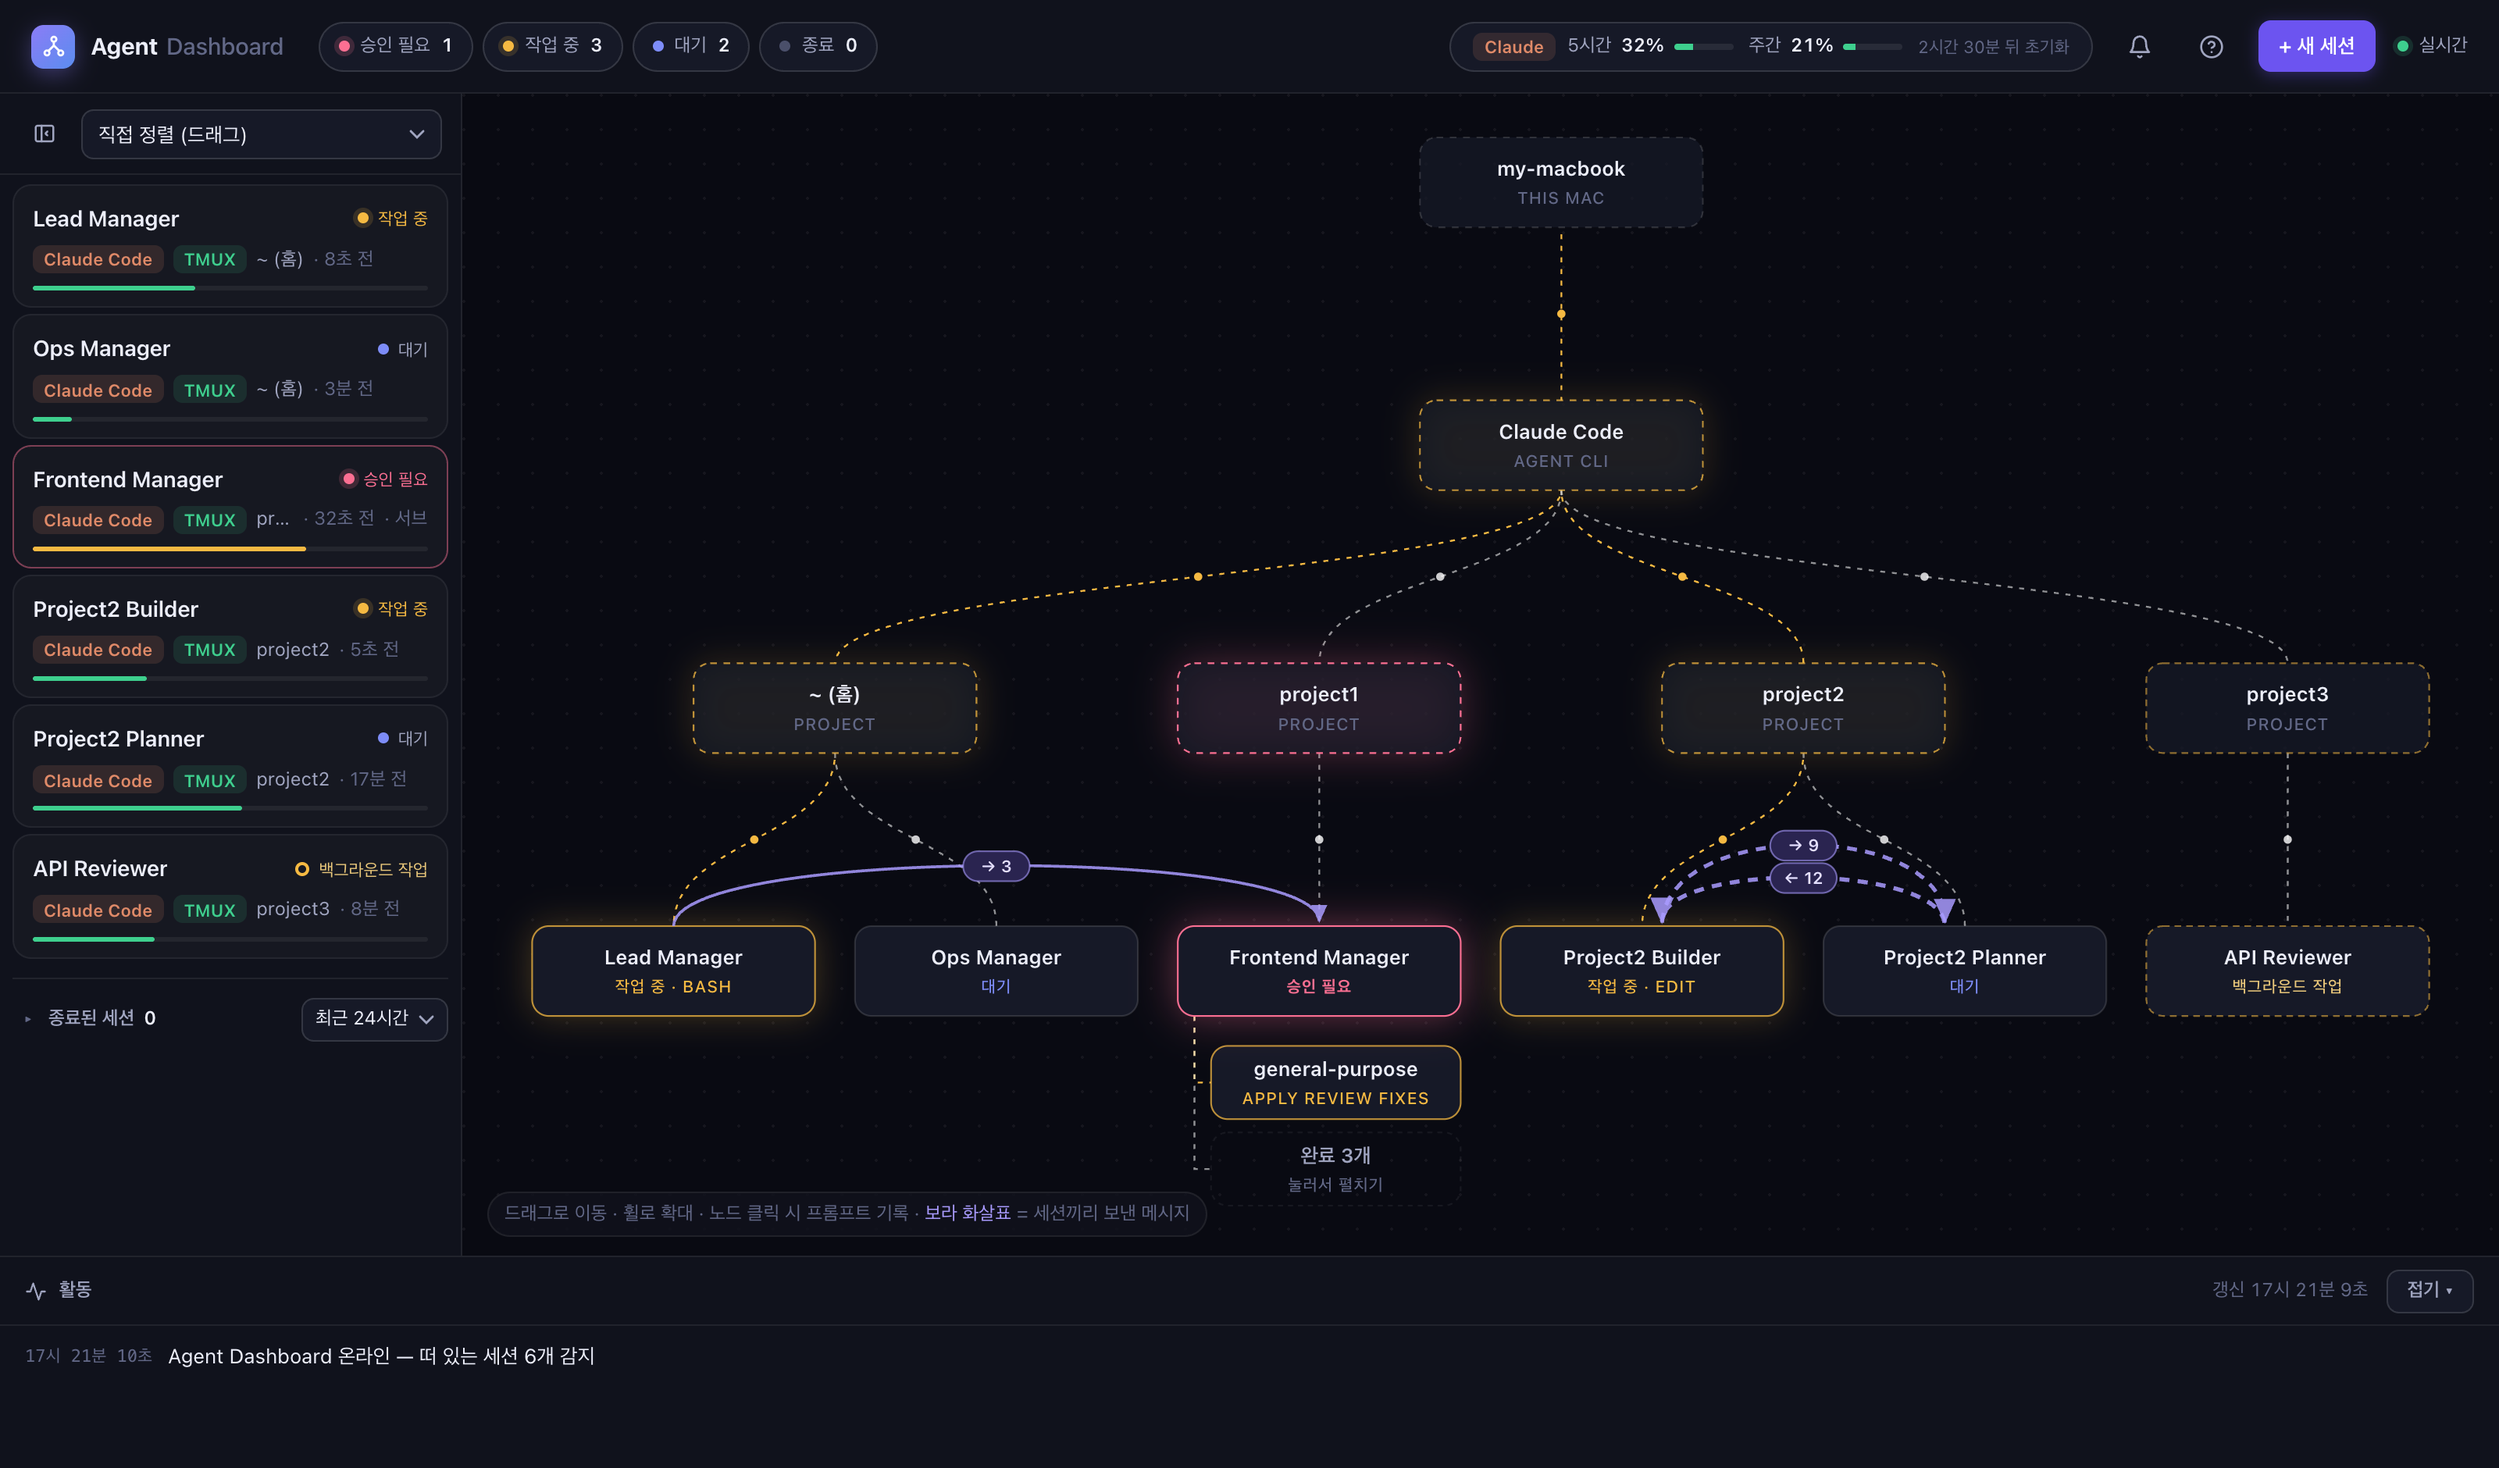
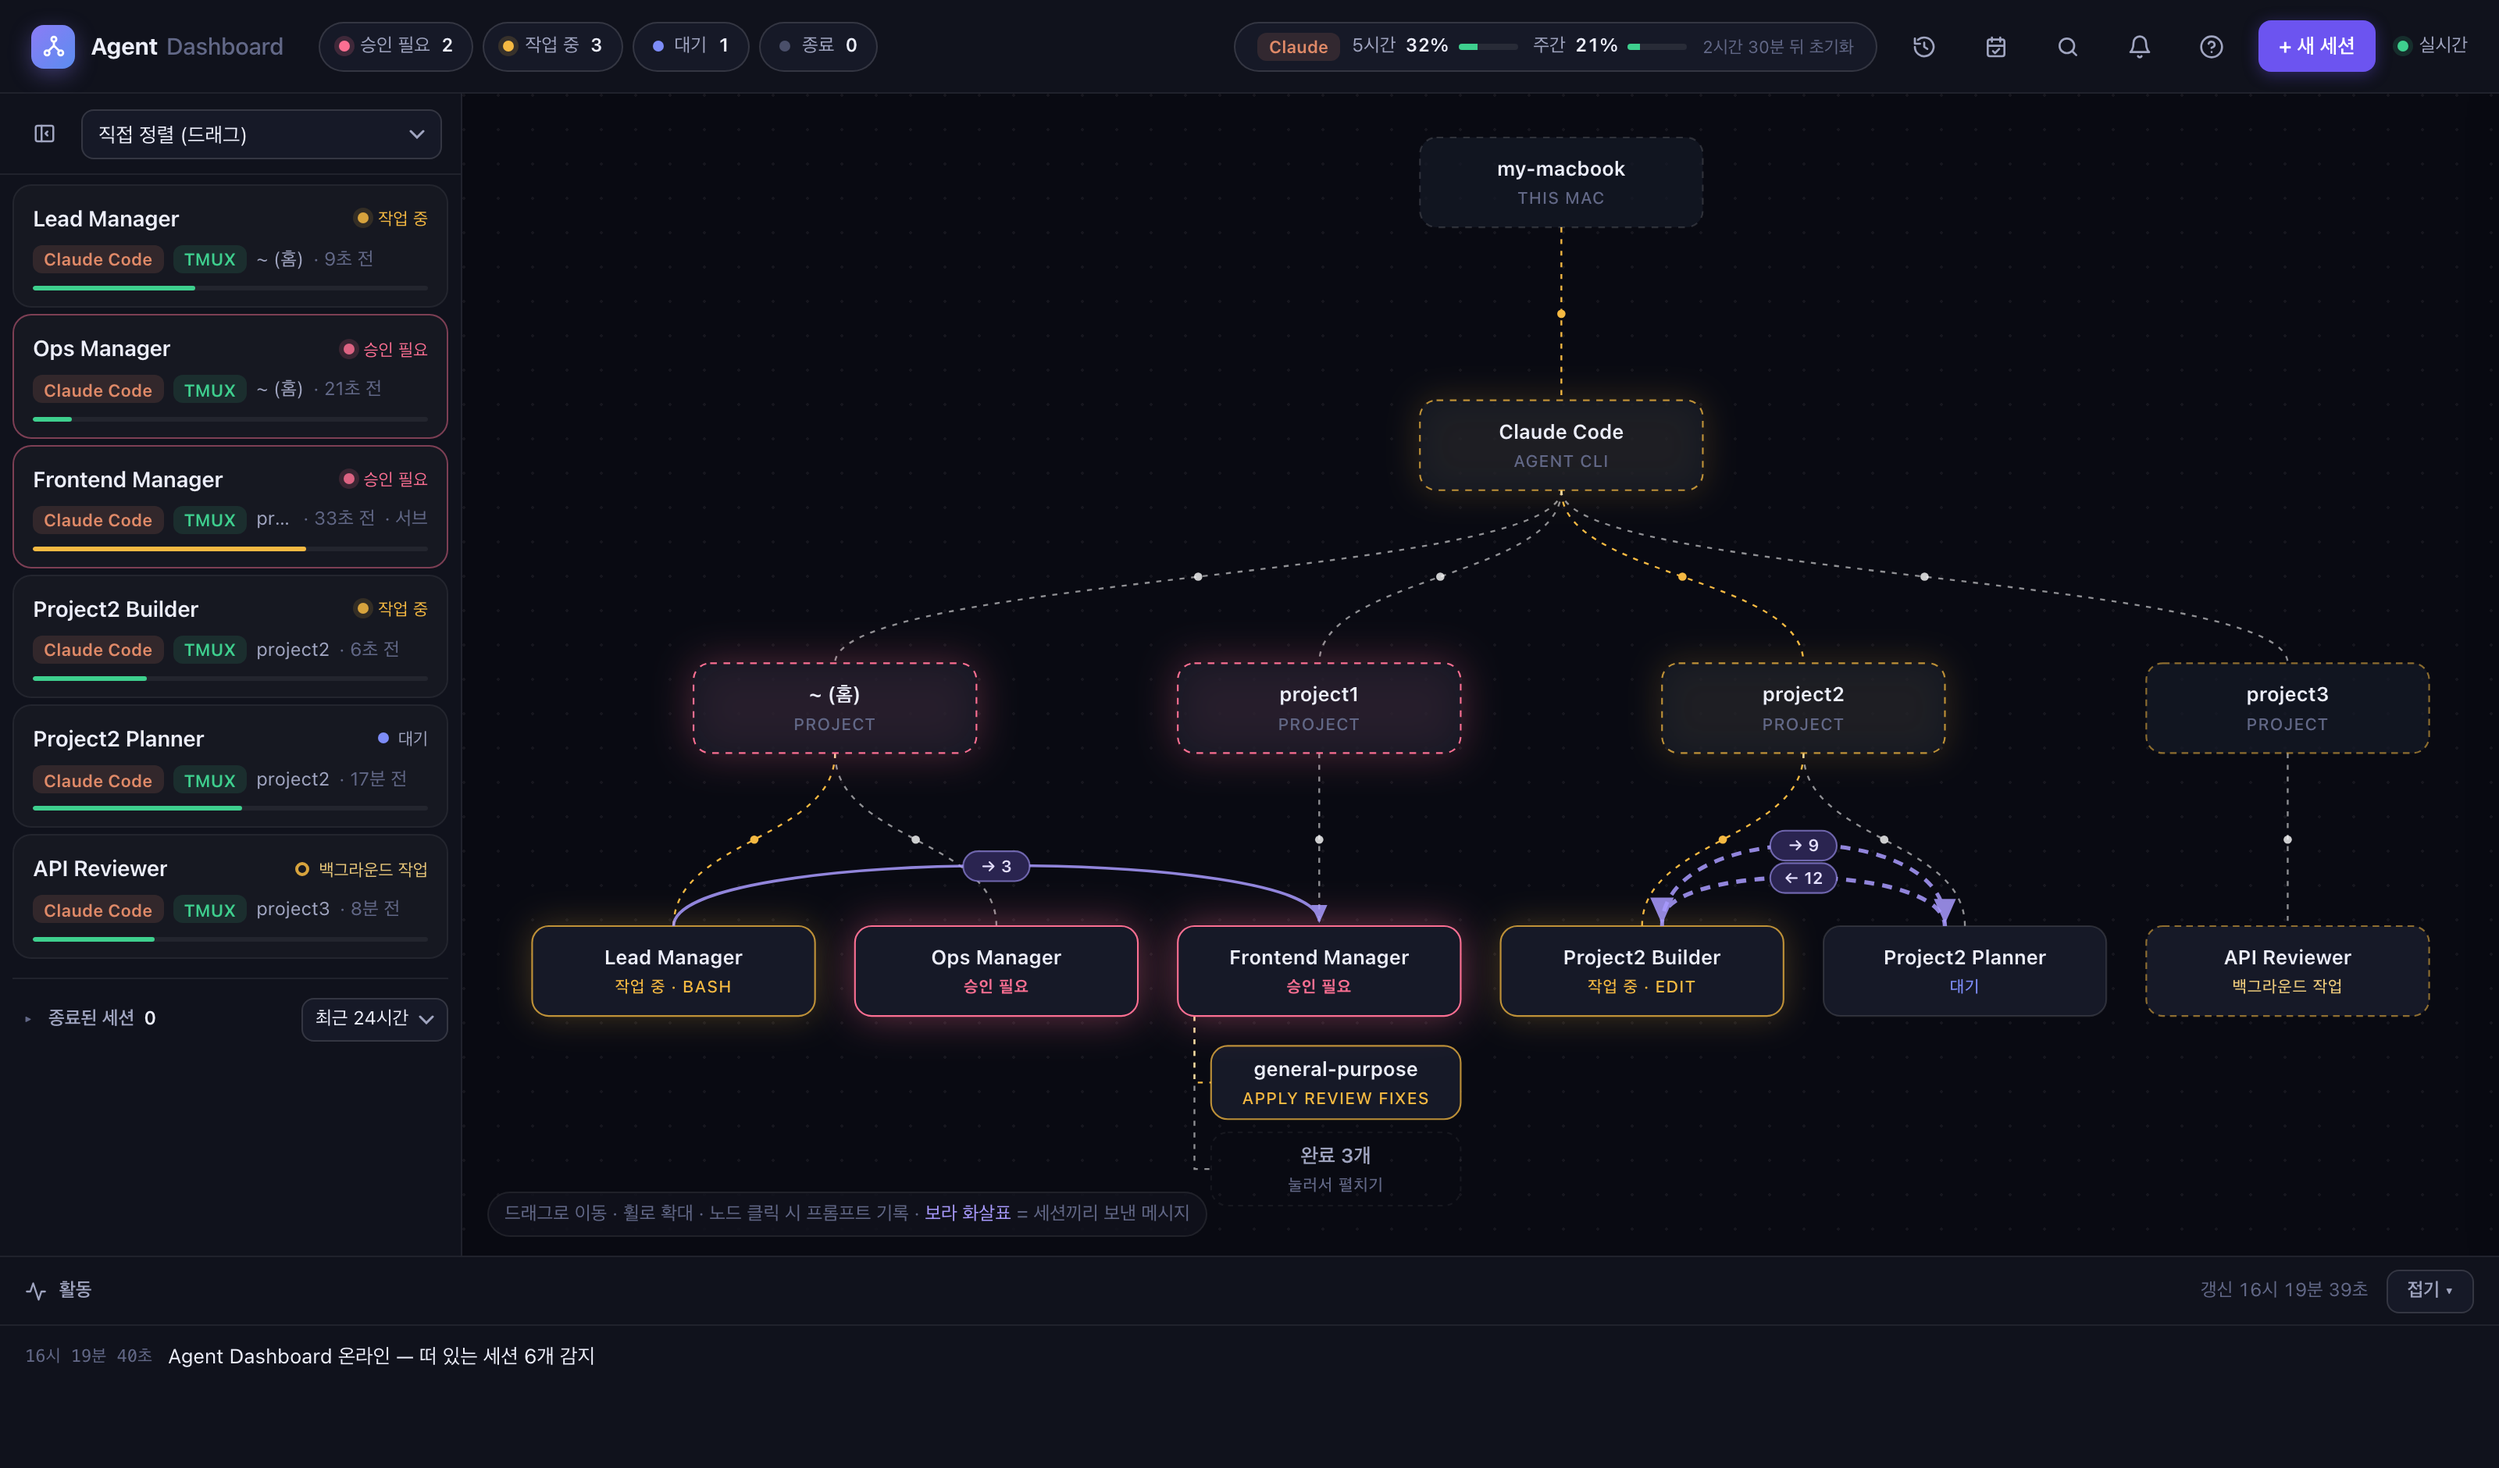
README 그림 다시 찍기: 전체 · 세션 패널 · 위험 승인 카드 · 데모 GIF
데모 모드(4646, PID 파일로 띄우고 끔)에서 헤드리스로. 승인 그림은 rm -rf · curl | sh 경고 카드,
GIF 는 전체 → 위험 승인 → 작업 중 세션 diff → 한도 추이 → 복구 창(14초, 1100px, 0.8MB).
화면 글자는 확대해 확인 — 데모 데이터(my-macbook · /Users/me · example.com)만, 콘솔 오류 0.

diff --git a/README.en.md b/README.en.md
@@ -20,7 +20,7 @@ Claude Code · Codex · zero dependencies · everything stays on your machine
 
 **Roadmap** — ✅ Stage 1: vanilla JS, built fast and used for real · 🔄 Stage 2: split files (done) · clean up (in progress), still zero dependencies · ⏳ Stage 3: move to React
 
-![Demo — approving a prompt and watching live diffs](docs/images/demo.gif)
+![Demo — an approval card with a risk warning, live diffs of a working session, the usage-limit trend and the restore dialog](docs/images/demo.gif)
 
 ![Overview — session list, org chart, account usage limits, activity log](docs/images/overview.png)
 
